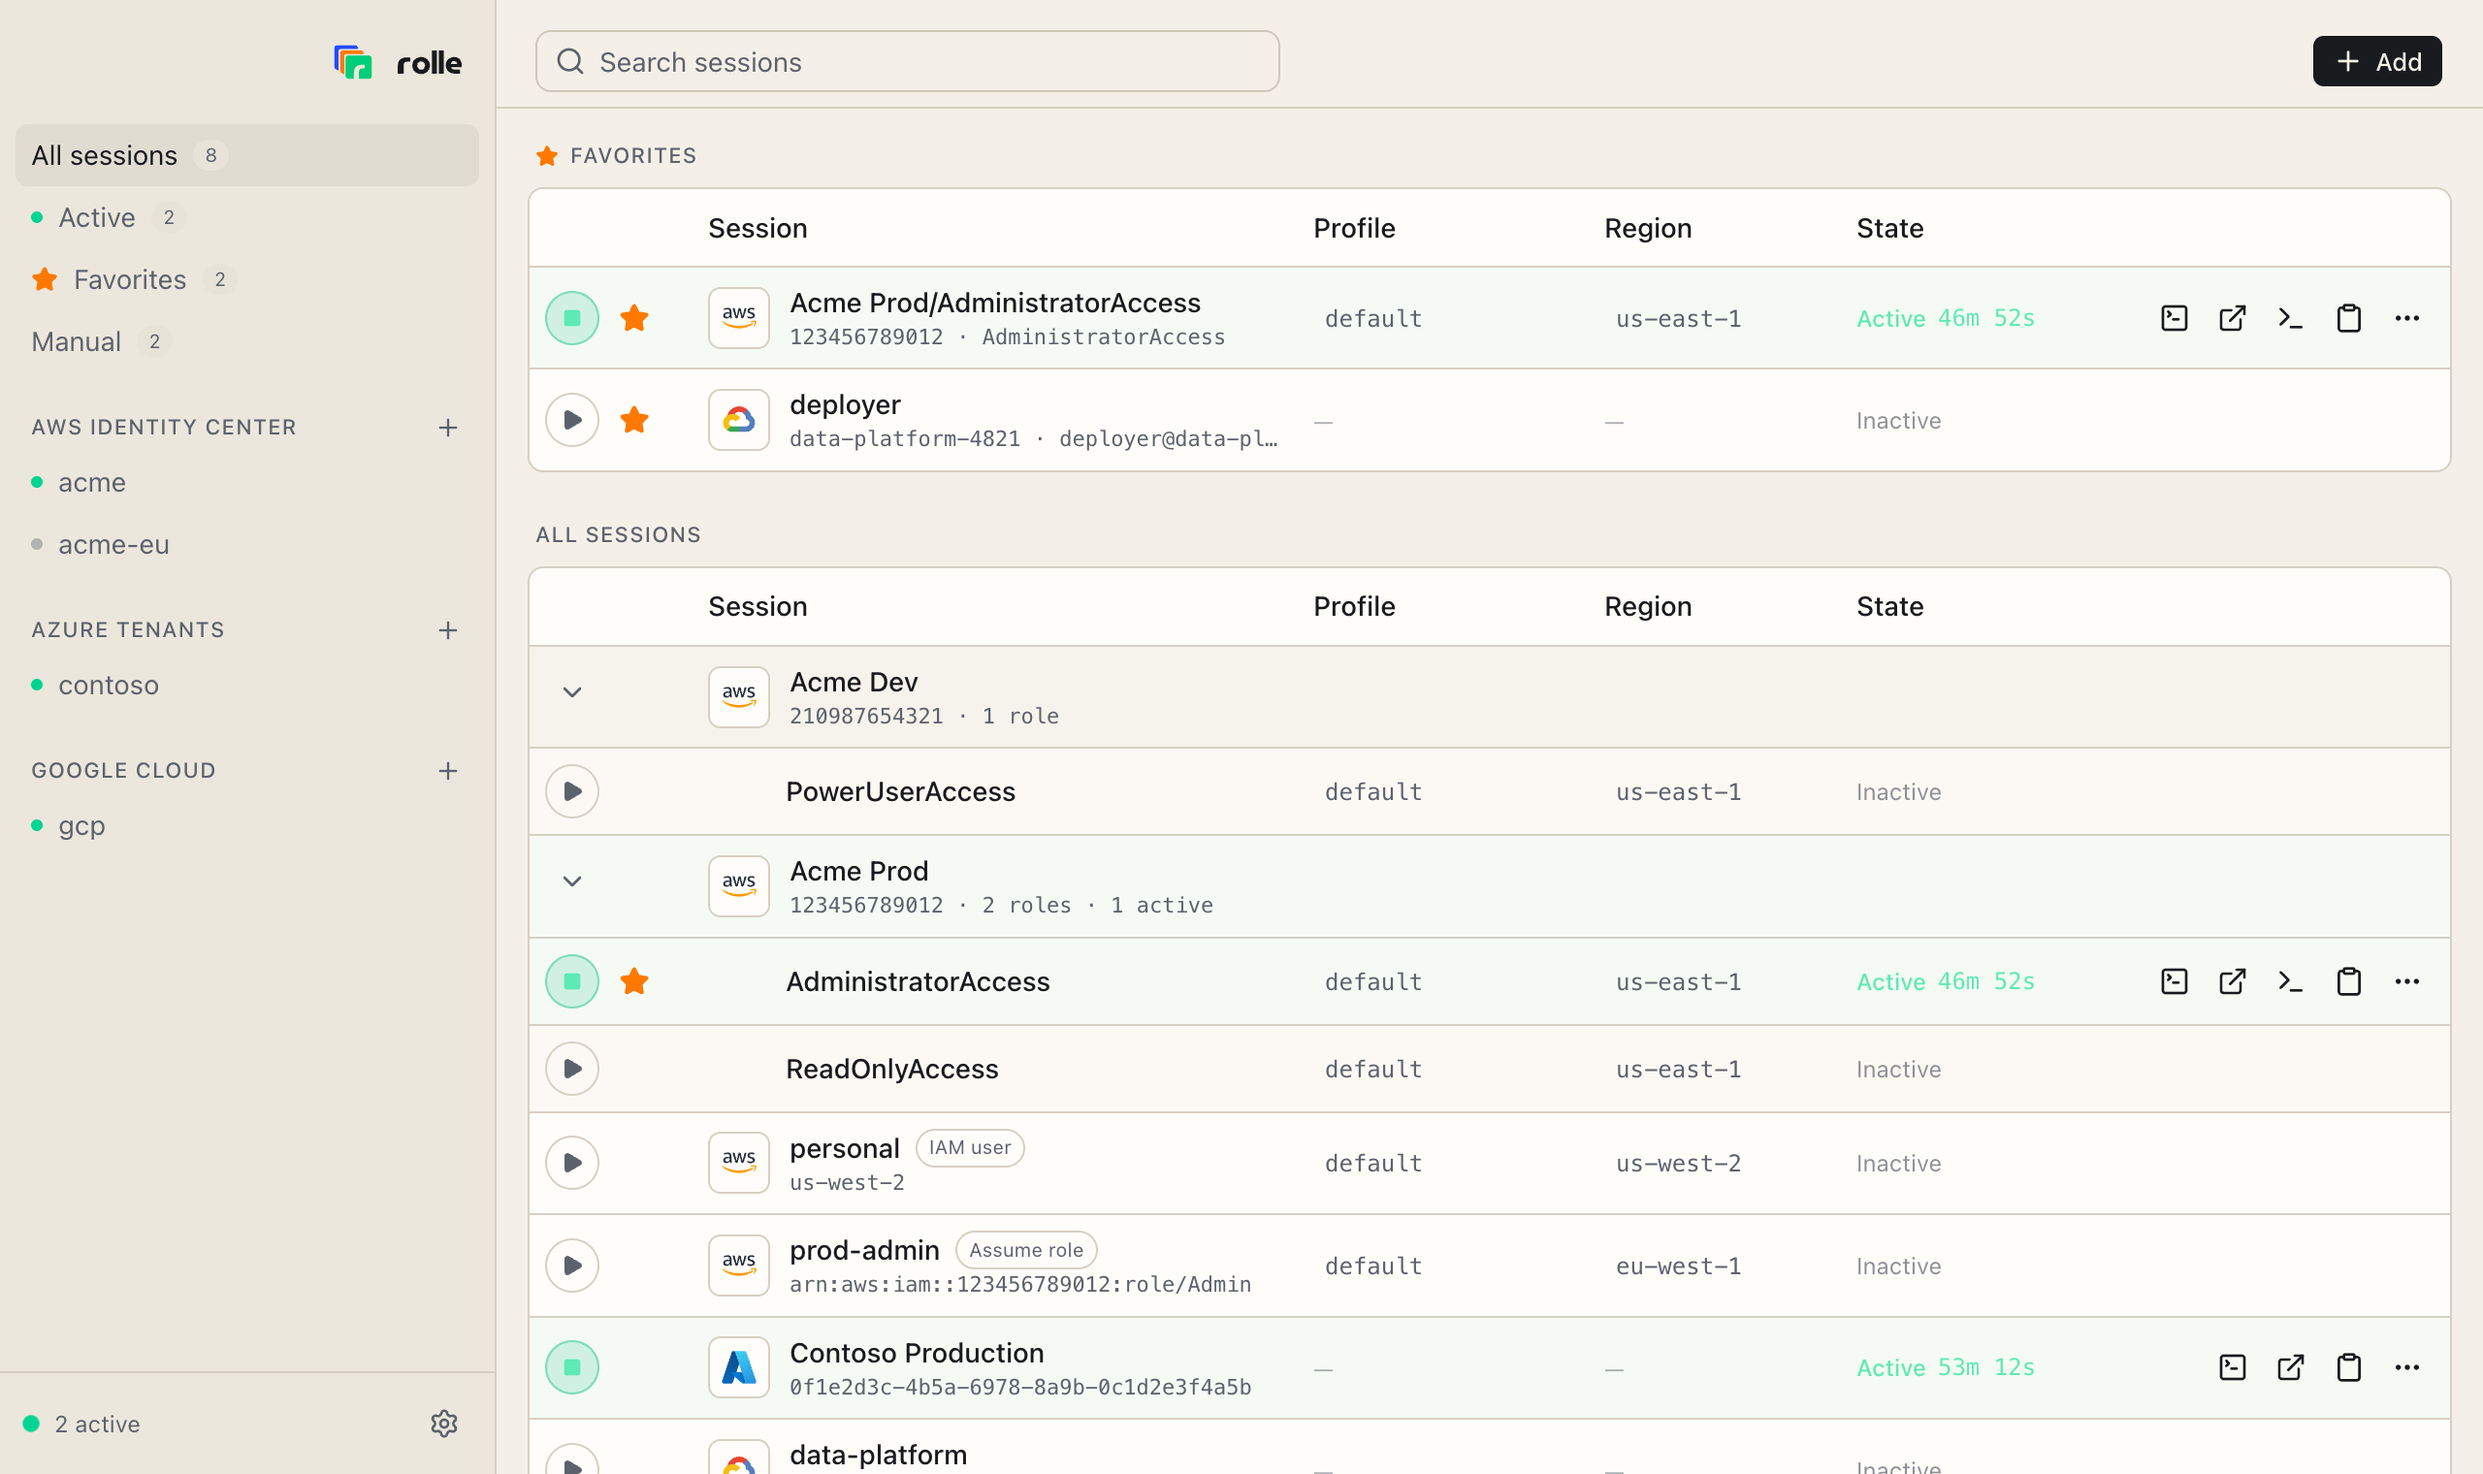
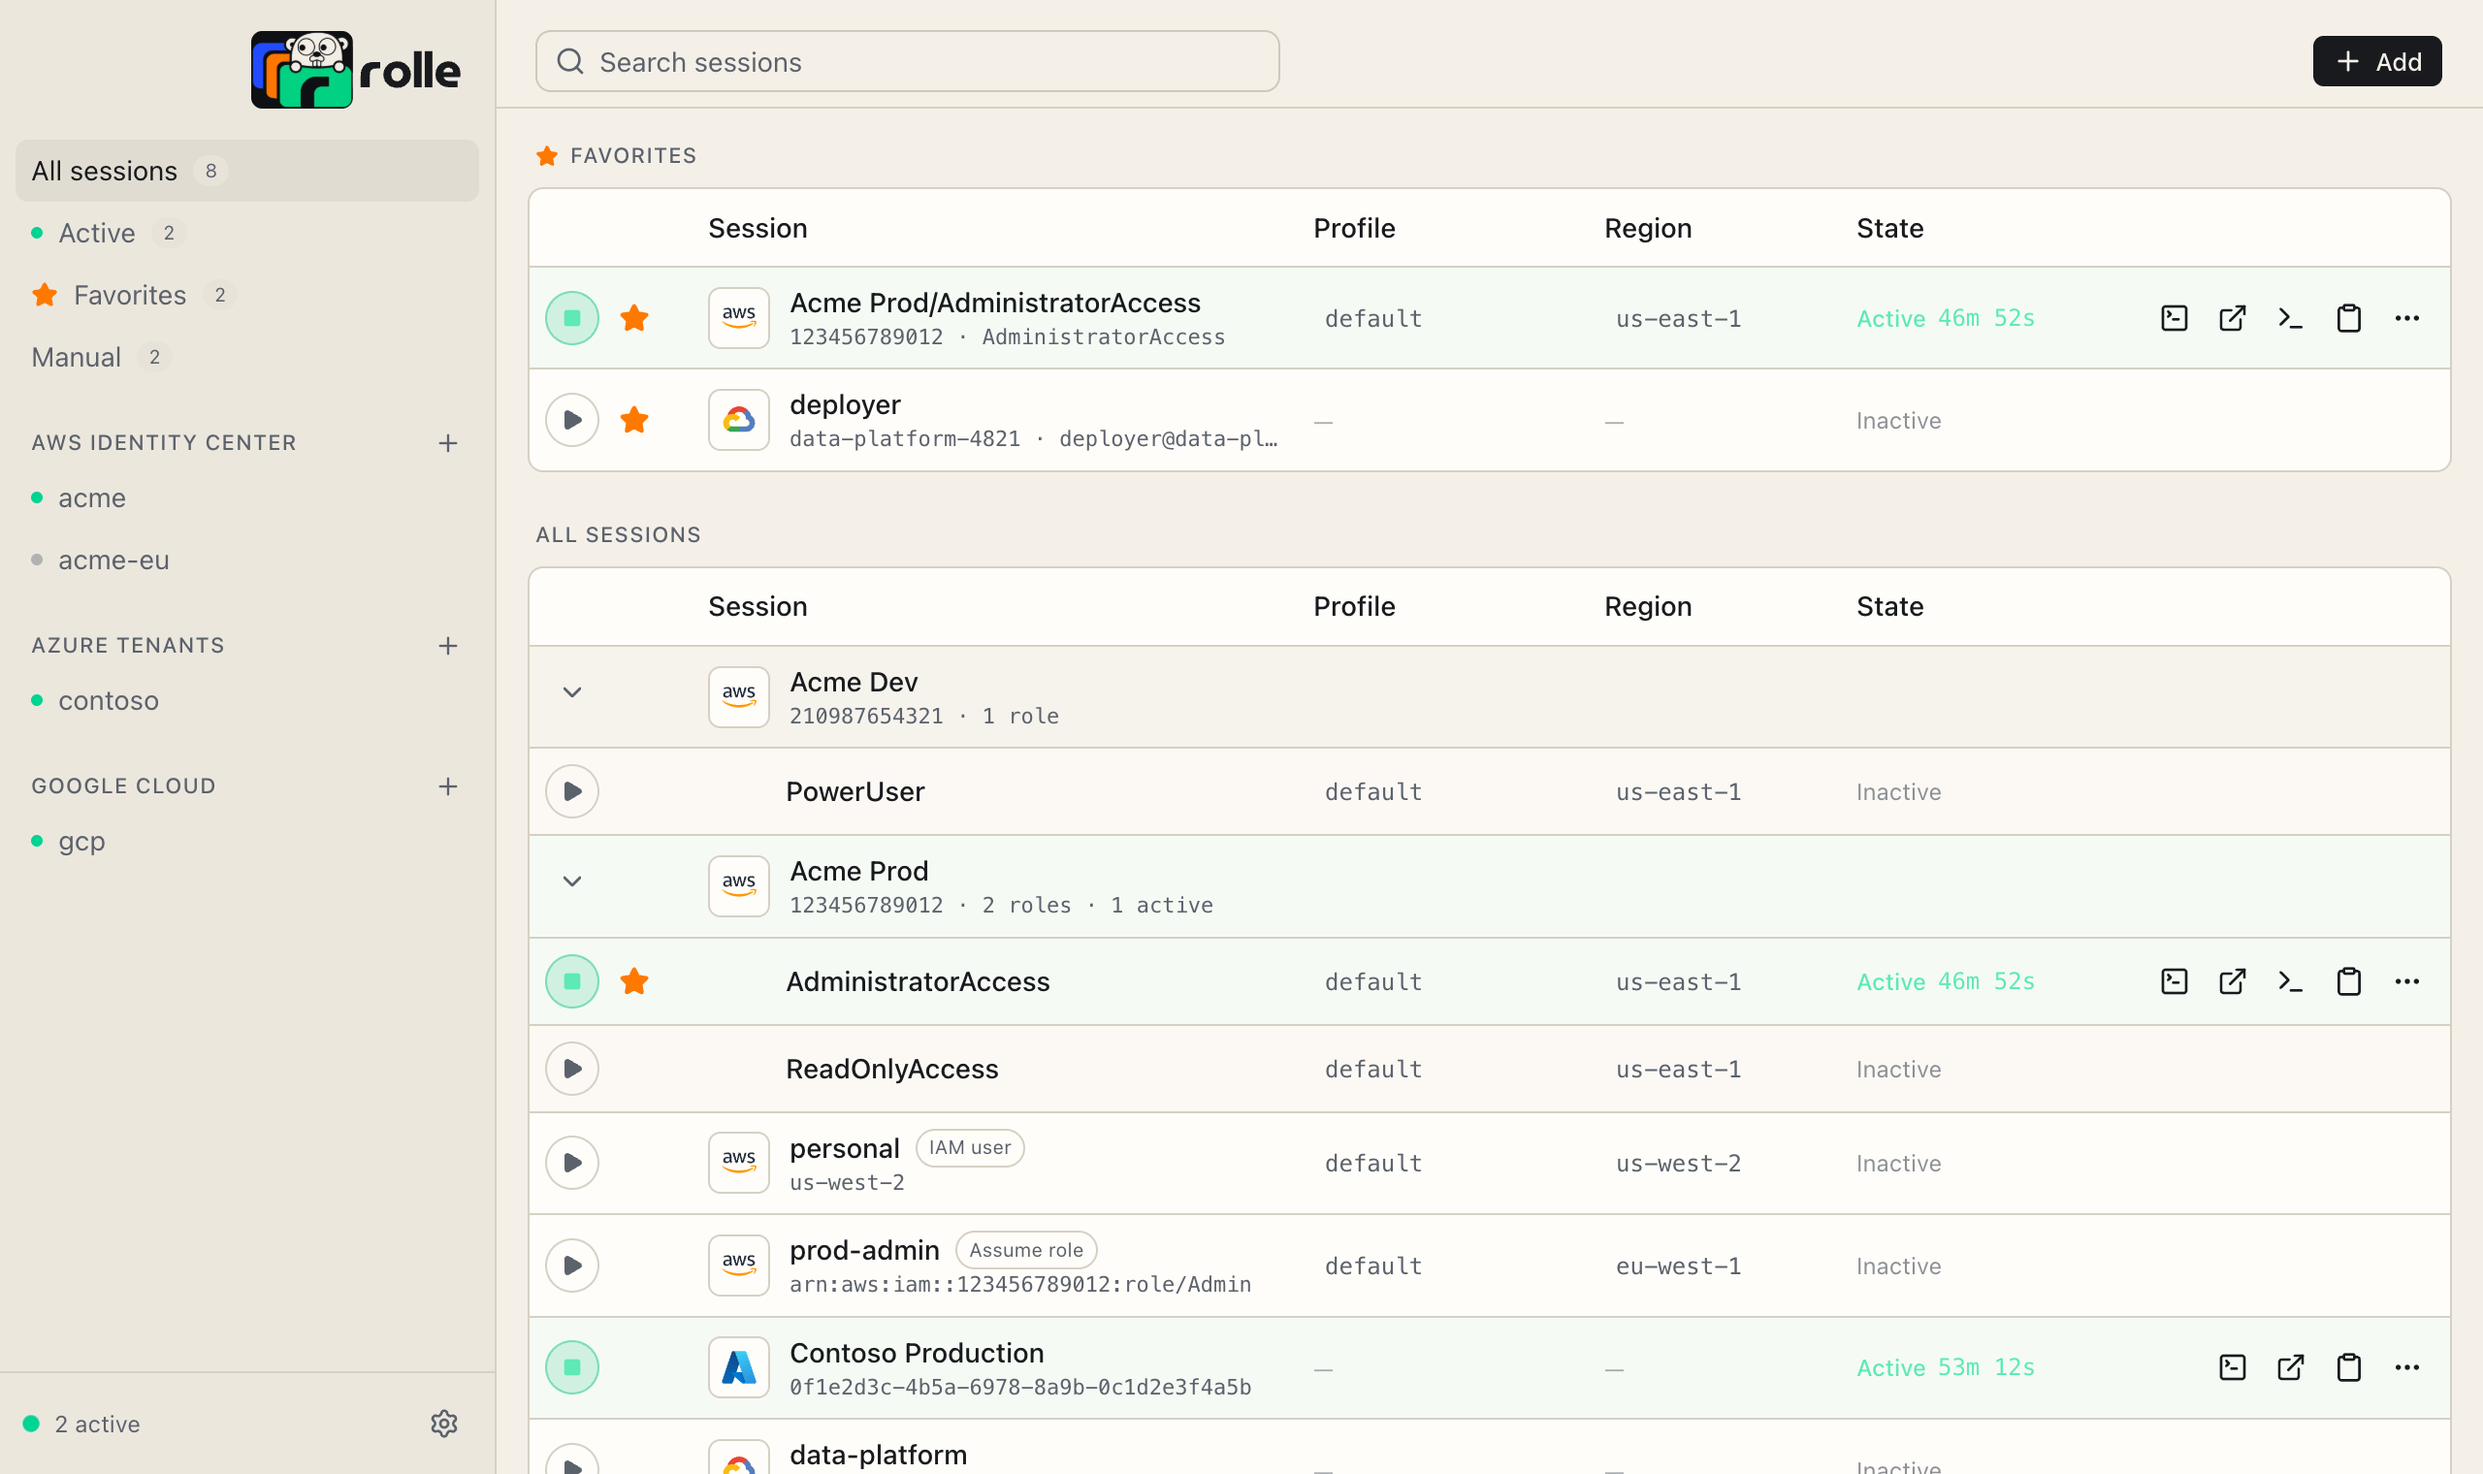
app header shows the gopher lockup; light variant sits on its charcoal tile
The sidebar and onboarding headers use the same gopher-and-wordmark
artwork as the docs site, at 40px and 36px. In light mode the artwork
keeps its charcoal tile so the ivory gopher stays visible. Screenshots
retaken.

diff --git a/apps/desktop/frontend/src/components/dashboard/Dashboard.tsx b/apps/desktop/frontend/src/components/dashboard/Dashboard.tsx
@@ -31,7 +31,7 @@ import {
 } from "@/components/ui/dropdown-menu";
 import { ContextMenu, ContextMenuContent, ContextMenuTrigger } from "@/components/ui/context-menu";
 import { ActionItems, type Action } from "@/components/ActionMenu";
-import { Lockup, Mark } from "@/components/Brand";
+import { GopherLockup, Mark } from "@/components/Brand";
 import { SessionTable, useColumnWidths } from "./SessionTable";
 import { DevTools } from "@/components/DevTools";
 import { SettingsDialog } from "@/components/dialogs/SettingsDialog";
@@ -162,8 +162,8 @@ export function Dashboard({ workspace }: { workspace: Workspace }) {
   return (
     <div className="flex h-full">
       <aside className="flex w-64 shrink-0 flex-col border-r bg-sidebar text-sidebar-foreground">
-        <div className="drag flex h-14 items-center justify-end px-4 pt-2">
-          <Lockup className="h-7" markClassName="size-7" />
+        <div className="drag flex h-16 items-center justify-end px-4 pt-2">
+          <GopherLockup className="h-10" />
         </div>
         <nav className="flex-1 space-y-4 overflow-y-auto px-2 py-2">
           <div>

diff --git a/apps/desktop/frontend/src/components/Brand.tsx b/apps/desktop/frontend/src/components/Brand.tsx
@@ -1,5 +1,7 @@
 import { motion } from "motion/react";
 import { cn } from "@/lib/utils";
+import logoDark from "@/assets/brand/logo-dark.svg";
+import logoLight from "@/assets/brand/logo-light.svg";
 import awsLogoDark from "@/assets/vendors/aws-dark.svg";
 import awsLogoLight from "@/assets/vendors/aws-light.svg";
 import azureLogo from "@/assets/vendors/azure.svg";
@@ -76,6 +78,21 @@ export function Lockup({ className, markClassName }: { className?: string; markC
       <Mark className={cn("size-6 text-primary", markClassName)} />
       <Wordmark className="h-[0.9em] text-foreground" />
     </span>
+  );
+}
+
+/** The gopher artwork with the wordmark, one file per theme. Height comes from className. */
+export function GopherLockup({ className }: { className?: string }) {
+  return (
+    <>
+      <img src={logoLight} alt="Rolle" className={cn("w-auto select-none dark:hidden", className)} draggable={false} />
+      <img
+        src={logoDark}
+        alt="Rolle"
+        className={cn("hidden w-auto select-none dark:block", className)}
+        draggable={false}
+      />
+    </>
   );
 }
 

diff --git a/apps/desktop/frontend/src/components/onboarding/Onboarding.tsx b/apps/desktop/frontend/src/components/onboarding/Onboarding.tsx
@@ -20,7 +20,7 @@ import { Button } from "@/components/ui/button";
 import { Input } from "@/components/ui/input";
 import { Label } from "@/components/ui/label";
 import { Badge } from "@/components/ui/badge";
-import { Mark, Lockup, CloudGlyph } from "@/components/Brand";
+import { Mark, GopherLockup, CloudGlyph } from "@/components/Brand";
 import { RegionSelect } from "@/components/RegionSelect";
 import { DevTools } from "@/components/DevTools";
 import {
@@ -309,7 +309,7 @@ export function Onboarding({ workspace }: { workspace: Workspace }) {
     <div className="relative flex h-full flex-col overflow-hidden">
       <header className="drag relative z-10 flex items-center justify-between px-6 pt-5">
         <div className="mac-inset">
-          <Lockup className="h-6" />
+          <GopherLockup className="h-9" />
         </div>
         <div className="no-drag flex items-center gap-1.5">
           {ORDER.map((s, i) => (

diff --git a/docs/brand/README.md b/docs/brand/README.md
@@ -34,6 +34,6 @@ Desktop and tray icons use the stack alone. The Go gopher is reserved for the RE
 
 [og-card.html](og-card.html) is the source of the Open Graph image served as `docs/public/og-brand.png`. Render it at 1200x630 with a headless browser after a brand change.
 
-## Docs site header
+## Gopher lockup
 
-`docs/public/logo-dark.svg` and `logo-light.svg` combine the gopher artwork (background keyed out) with the wordmark for the getrolle.com header; `docs/theme.css` sets its height.
+`docs/public/logo-dark.svg` and `logo-light.svg` combine the gopher artwork (background keyed out) with the wordmark. The getrolle.com header uses them (`docs/theme.css` sets the height), and the desktop app carries copies in `apps/desktop/frontend/src/assets/brand/` for its sidebar and onboarding headers.
